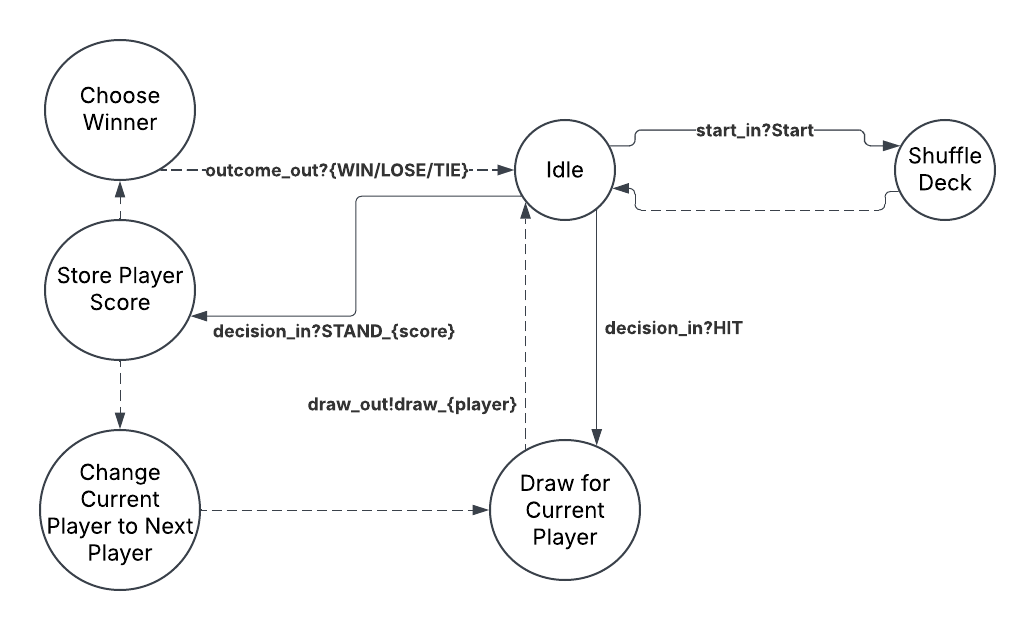
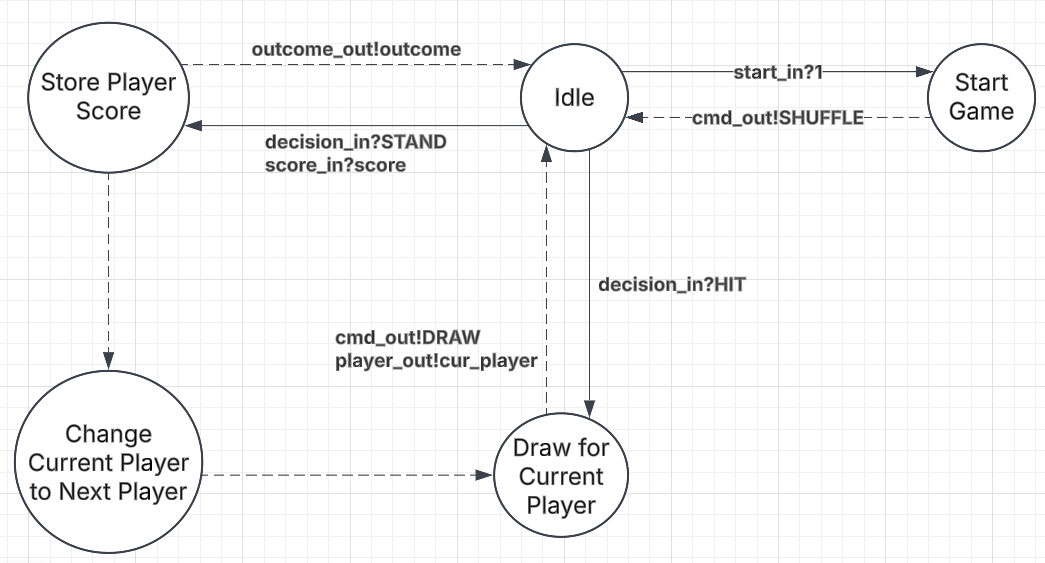
Atomic port update (#31)
* Updated Threshold model with ports

* Updated deck model with ports

* Adding ports in controller.md specs

* Fully updating controller atomic model specs.

- Also made some minor changes in the code.
- Left more notes for code changes

* Fixed deck diagram

- Minor notation error in controller fixed as well

* Added updated controller.png

* Added deck.json back

---------

diff --git a/main/include/src/atomic_models/controller.hpp b/main/include/src/atomic_models/controller.hpp
@@ -32,15 +32,20 @@ inline std::ostream& operator<<(std::ostream& out, const controllerActions& acti
 
 struct controllerState {
     //State variables
-    controllerActions state;
-    Players current_player;
-    int challenger_score;
-    int dealer_score;
-    outcome result;
+    Players current_player; // s1
+    int challenger_score; // s2
+    int dealer_score; // s3
+    controllerActions state; // s4
+    outcome result; // REMOVE - Refactors can be done in output, and internal transition. Issue #30
     double sigma;
 
     //Instantiate
-    explicit controllerState(): state(controllerActions::IDLE), current_player(Players::CHALLENGER), challenger_score(0), dealer_score(0), result(outcome::CONTINUE) {
+    explicit controllerState():
+    current_player(Players::CHALLENGER),
+    challenger_score(0),
+    dealer_score(0),
+    state(controllerActions::IDLE),
+    result(outcome::CONTINUE) {
         sigma = std::numeric_limits<double>::infinity();
     }
 };
@@ -95,6 +100,10 @@ class controller : public Atomic<controllerState> {
         }
         // STAND:
         else if (state.state == controllerActions::STAND){
+            // TODO: check_winner -> if not CONTINUE (no winner), short-circuit
+            //  short-circuit: controller -> IDLE
+            //  otherwise: set dealer, set hit.
+
             if (state.current_player == Players::CHALLENGER){ // CHALLENGER STAND
                 if (state.challenger_score > 21){ // Check if CHALLENGER bust
                     state.result = outcome::LOSE;
@@ -166,16 +175,12 @@ class controller : public Atomic<controllerState> {
                 commandOutPort->addMessage(deckCommand::SHUFFLE);
         }
         else if (state.state == controllerActions::HIT) {
-            if (state.current_player == Players::CHALLENGER){
-                commandOutPort->addMessage(deckCommand::DRAW);
-                playerOutPort->addMessage(Players::CHALLENGER);
-            }
-            else if (state.current_player == Players::DEALER){
-                commandOutPort->addMessage(deckCommand::DRAW);
-                playerOutPort->addMessage(Players::DEALER);
-            }
+            commandOutPort->addMessage(deckCommand::DRAW);
+            playerOutPort->addMessage(state.current_player);
         }
         else if (state.state == controllerActions::STAND){
+            // FIXME: simply call new function "check_winner" here
+            //  outcomeOutPort->addMessage(check_winner());
             if (state.dealer_score > 21) {
                 outcomeOutPort->addMessage(outcome::WIN);
             }

diff --git a/documentation/atomic_models/controller.md b/documentation/atomic_models/controller.md
@@ -2,54 +2,68 @@
 ![controller model](controller.png)
 
 ## X - Inputs
-The possible inputs are Start, to start the game and decisions by the players. 
-A player can ask to HIT to draw another card, and stand to stop drawing. 
-Stand also reports the final score value of the player.
+Start: Input to start the game. 
+Decisions: A player can ask to HIT to draw another card, and stand to stop drawing. 
+Score: Final score reported when a player stands.
 
-$$ v \in \mathbb{N} \cap [1,30]$$
-$$X = {START, HIT, STAND\_v}$$
-Note: Stand also encodes a score value after the underscore, as denoted by $v$.
+$$X = (start, decision, score)$$
+$$ start \in \mathbb{B}$$
+$$ decision \in \{HIT, STAND\}$$
+$$ score \in \mathbb{N} \cap [1,30]$$
 
 ## S - States
 The state of the controller is composed of four components. 
 The player currently playing ($s_1$), the challenger's score($s_2$), the dealer's score($s_3$), 
-the last input ($s_4$). We add the CHECK_WINNER to $s_4$ to allow to transition to checking the winner internally. 
-Finally, the IDLE state is also added to s4 to idle in-between inputs.
+the last input ($s_4$). We add the IDLE to s4 to idle in-between inputs.
 
 $$ s1 \in \{CHALLENGER, DEALER\}$$
 $$ s2, s3 \in \mathbb{N} \cap [1,30]$$
-$$ s4 \in X \cup \{IDLE, CHECK\_WINNER\}$$
+$$ s4 \in decision \cup \{IDLE\}$$
 $$ S = \{(s1,s2,s3,s4)\} $$
 
 ## Y - Outputs
-The controller outputs commands (C), and game outcomes (O).
-$$ C = \{SHUFFLE, DRAW\_CHALLENGER, DRAW\_DEALER\}$$
-$$ O = \{WIN, TIE, LOSS\}$$
-$$ Y = C \cup O $$
+The controller outputs commands, and game outcomes. 
+It also makes use of players to communicate who to draw for.
+$$ Y =  (command, player, outcome)$$
+$$ command \in \{SHUFFLE, DRAW\}$$
+$$ player \in \{CHALLENGER, DEALER\}$$
+$$ outcome \in \{WIN, TIE, LOSS\}$$
 
 ## $\delta$<sub>int</sub> - Internal transitions
 The internal transition behaviour is strongly dependent on the value in $s_4$, 
 therefore we define $\delta_{int}$ based on it. Note, $s_4$ = IDLE is ignored because of its infinite ta value.
-Note: $v$ in $STAND\_v$ is the encoded score value when the player stands, it is assumed it can be parsed and stored.
 
-### Bust Checker
-Small helper function to short-circuit game in the case of a BUST. Returns HIT to continue the game if no bust, 
-CHECK_WINNER otherwise.
-$$check\_bust(v) = \{if\ v > 21\ then\ CHECK\_WINNER \ else\ HIT\}$$
+### Check Winner function
+This function compares the internal state to determine the game winner.
+Note: CONTINUE indicates no winner, game should continue.
+$$ \begin{align}
+check\_winner(chal, deal) = \{\ 
+&if\ chal > 21 &then\ LOSE \\
+&if\ deal = 0 &then\ CONTINUE\\
+& if\ deal > 21 &then\ WIN \\
+& if\ deal = chal &then\ TIE \\
+& if\ chal > deal &then\ WIN \\
+& if\ chal < deal &then\ LOSE
+\}
+\end{align}
+$$
 
 ### $\delta_{int}$
 $$ \delta_{int}(\_, \_, \_, START) = (CHALLENGER, 0, 0, IDLE)$$
 $$ \delta_{int}(s1, s2, s3, HIT) = (s1, s2, s3, IDLE)$$
-$$ \delta_{int}(\_, \_, \_, STAND\_v) = \{if\ s1 = CHALLENGER\ then\ (DEALER, v, s3, check\_bust(v))\ else\ (s1, s2, v, CHECK\_WINNER)\}$$
-$$ \delta_{int}(\_, \_, \_, CHECK\_WINNER) = (s1, s2, s3, IDLE)$$
+$$ \delta_{int}(\_, \_, \_, STAND) = \{if\ check\_winner(s2, s3) != CONTINUE\ then\ (s1, s2, s3, IDLE)\ else\ (DEALER, s2, s3, HIT)\}$$
+- For stand, we check if the game should end. Otherwise, it must be the dealer's turn to go next 
+(since it's always the challenger, then the dealer's turn to play before ending the game).
 
 ## $\delta$<sub>ext</sub> - External transitions
 External inputs simply get stored directly in s4, its purpose is to store the last input. 
 We ignore inputs if there already is an input to process, although this should never happen normally. 
 It is probably an error in the model in that case.
 
-$$ \delta_{ext}(x, (s1,s2,s3,0))= (s1,s2,s3,x)$$
-$$ \delta_{ext}(x, (s1,s2,s3,s4))= (s1,s2,s3,s4)$$
+$$ \delta_{ext}((1, \_, \_), (s1,s2,s3,s4))= (s1,s2,s3,SHUFFLE)$$
+$$ \delta_{ext}((0, HIT, _), (s1,s2,s3,s4))= (s1,s2,s3,HIT)$$
+$$ \delta_{ext}((0, STAND, value), (CHALLENGER,s2,s3,s4))= (s1,value,s3,STAND)$$
+$$ \delta_{ext}((0, STAND, value), (DEALER,s2,s3,s4))= (s1,s2,value,STAND)$$
 
 ## ta - Time advance function
 Note: The time advance is entirely dependent on $s_4$.
@@ -60,22 +74,14 @@ $$ \text{if}\ S_{\{\text{_, _, _, CHECK_WINNER}\}}\ \rightarrow \tau_a = 2$$
 $$ \text{if}\ S_{\{\text{_, _, _, IDLE}\}}\ \rightarrow \tau_a = inf$$
 
 ## $\lambda$ - Output function
-Note: We don't handle the IDLE $s_4$ because it has an infinite time advance.
-### Check Winner function
-This function compares the internal state to determine the game winner
-$$ \begin{align}
-check\_winner(chal, deal) = \{\ &if\ chal > 21 &then\ LOSE \\
-& if\ deal > 21 &then\ WIN \\
-& if\ deal = chal &then\ TIE \\
-& if\ chal > deal &then\ WIN \\
-& if\ chal < deal &then\ LOSE \}
-\end{align}
-$$
+Note: We don't handle the IDLE $s_4$ because it has an infinite time advance. 
+We re-use the check_winner function mentioned in the internal transition section
 
 ### Output function
+Note: _ indicates no output for that port
 $$ \begin{align}
-lambda(s) = \{\ &if\ s_4=HIT &then\ DRAW\_(s1) \\
-& if\ s_4=START &then\ SHUFFLE \\
-& if\ s_4=CHECK\_WINNER\ &then\ check\_winner(s2, s3)\} 
+lambda(s) = \{\ &if\ s_4=HIT &then\ (DRAW, s_1, \_) \\
+& if\ s_4=START &then\ (SHUFFLE, \_, \_)  \\
+& if\ s_4=CHECK\_WINNER\ &then\ (\_, \_, check\_winner(s2, s3))\} 
 \end{align}
 $$

diff --git a/documentation/atomic_models/deck.md b/documentation/atomic_models/deck.md
@@ -2,37 +2,51 @@
 ![deck model](deck.png)
 
 ## X - Inputs
- {SHUFFLE, DRAW_CHALLENGER, DRAW_DEALER}
-- Shuffle: shuffles the cards in the deck
-- draw_X: draw one card in the deck, for the named player (X).
+Inputs are composed of commands, and players (to specify who to draw for).
+$$ X = (c, p)$$
+$$ p \in \{CHALLENGER, DEALER\}$$
+$$ c \in \{SHUFFLE, DRAW\}$$
+Command description:
+- SHUFFLE: shuffles the cards in the deck
+- DRAW: draw one card in the deck, for the given player (p).
 ## S - States
 
-$$ S = \{(\text{deck, active})\ |\ \text{deck} \subseteq D, \text{active} \in \{\text{idle, draw, shuffle}\}\} $$
+$$ S = \{(\text{deck, action})\ |\ \text{deck} \subseteq D, 
+\text{active} \in \{\text{idle, draw_challenger, draw_dealer,  shuffle}\}\} $$
+
 - deck: the list of remaining cards
 - D: the 52 card standard deck
 ## Y - Outputs
-{A,2,3,4,5,6,7,8,9,10,J,Q,K,HIT}
+There are two ports to select where the card is going. A card should only go on one port at a time.
+There is also a port for the deck to notify the controller to draw after a shuffle.
+$$ Y = (dealer_card, challenger_card, hit_out)$$
+$$ dealer_card, challenger_card \in {A,2,3,4,5,6,7,8,9,10,J,Q,K}$$
+$$ hit_out \in \{HIT\}$$
+
 
 ## $\delta_{int}$ - Internal transitions
 Note: DRAW_X indicates don't care value, either one behaves the same.
-$$ \delta_{int}( \{\text{deck, DRAW\_X}\}) \rightarrow \text{deck}-1 \rightarrow S_{\{\text{deck, idle}\}} $$
+$$ \delta_{int}( \{\text{deck, draw_dealer}\}) \rightarrow \text{deck}-1 \rightarrow S_{\{\text{deck, idle}\}} $$
+$$ \delta_{int}( \{\text{deck, draw_challenger}\}) \rightarrow \text{deck}-1 \rightarrow S_{\{\text{deck, idle}\}} $$
 $$ \delta_{int}(\{\text{deck, shuffle}\}) \rightarrow \text{shuffle deck} \rightarrow S_{\{\text{deck, idle}\}} $$
 ## $\delta_{ext}$ - External transitions
-Note: DRAW_X indicates don't care value, either one behaves the same.
-$$ \delta_{ext}(\text{draw},\{\text{deck, idle}\}) \rightarrow S_{\{\text{deck, DRAW\_X}\}} $$
-$$ \delta_{ext}(\text{shuffle},\{\text{deck, idle}\}) \rightarrow S_{\{\text{deck, shuffle}\}} $$
+$$ \delta_{ext}(\text{\{draw, dealer\}},\{\text{deck, idle}\}) \rightarrow S_{\{\text{deck, draw_dealer}\}} $$
+$$ \delta_{ext}(\text{\{draw, challenger\}},\{\text{deck, idle}\}) \rightarrow S_{\{\text{deck, draw_challenger}\}} $$
+$$ \delta_{ext}(\text{\{shuffle, _\}},\{\text{deck, idle}\}) \rightarrow S_{\{\text{deck, shuffle}\}} $$
 ## ta - Time advance function
 Note: DRAW_X indicates don't care value, either one behaves the same.
 $$ \text{if}\ S_{\{\text{deck, idle}\}} \rightarrow \tau_a = \infty $$
-$$ \text{if}\ S_{\{\text{deck, DRAW\_X}\}} \rightarrow \tau_a = 1s $$
+$$ \text{if}\ S_{\{\text{deck, draw_dealer}\}} \rightarrow \tau_a = 1s $$
+$$ \text{if}\ S_{\{\text{deck, draw_challenger}\}} \rightarrow \tau_a = 1s $$
 $$ \text{if}\ S_{\{\text{deck, shuffle}\}} \rightarrow \tau_a = 10s $$
 
 ## $\lambda$ - Output function
 The draw outputs encode the player to send the card to first, then the card drawn (returned by the drawing function).
-When the deck is shuffled, the deck model communicates back to draw immediately from it.
+When the deck is shuffled, the deck model communicates back to draw immediately from it. 
+Note: _ used to show that nothing is set on that output port. 
 
-$$ \text{if}\ S_{\{\text{deck, DRAW\_CHALLENGER}\}} \rightarrow CHALLENGER\_draw(deck)$$
-$$ \text{if}\ S_{\{\text{deck, DRAW\_DEALER}\}} \rightarrow DEALER\_draw(deck)$$
-$$ \text{if}\ S_{\{\text{deck, shuffle}\}} \rightarrow HIT$$
+$$ \text{if}\ S_{\{\text{deck, draw_challenger}\}} \rightarrow (\_, draw(deck), \_)$$
+$$ \text{if}\ S_{\{\text{deck, draw_dealer}\}} \rightarrow (draw(deck), \_, \_)$$
+$$ \text{if}\ S_{\{\text{deck, shuffle}\}} \rightarrow (\_, \_, HIT)$$
 
-- draw(deck) returns any card remaining in the deck equally weighted.
+- draw(deck) returns any card remaining in the deck, equally weighted.

diff --git a/documentation/atomic_models/threshold.md b/documentation/atomic_models/threshold.md
@@ -17,7 +17,8 @@ $$ v \in X \cup\{0\}$$
 ## Y - Outputs
 Decisions to take, based on the comparison between the threshold and input value (see output function).
 Note: STAND appends the player score at the end which shares the range of $v$.
-$$ Y = \{HIT, STAND\_v\} $$
+$$ Y = (d, v) $$
+$$ d \in \{HIT, STAND\} $$
 $$ v \in X \cup\{0\}$$
 
 ## $\delta_{int}$ - Internal transitions
@@ -46,6 +47,6 @@ Ignore when v = 0, infinite ta. When the value meets the threshold (or above), t
 Otherwise, keep hitting (HIT).
 
 $$ \begin{align}
-\lambda(s) =\ & \{ if  &s_t > s_v & \quad then\ HIT \\
-&\ else && \quad then \ STAND\_v
+\lambda(s) =\ & \{ if  &s_t > s_v & \quad then\ (HIT, 0) \\
+&\ else && \quad then \ (STAND, s_v)
 \end{align}$$ 
